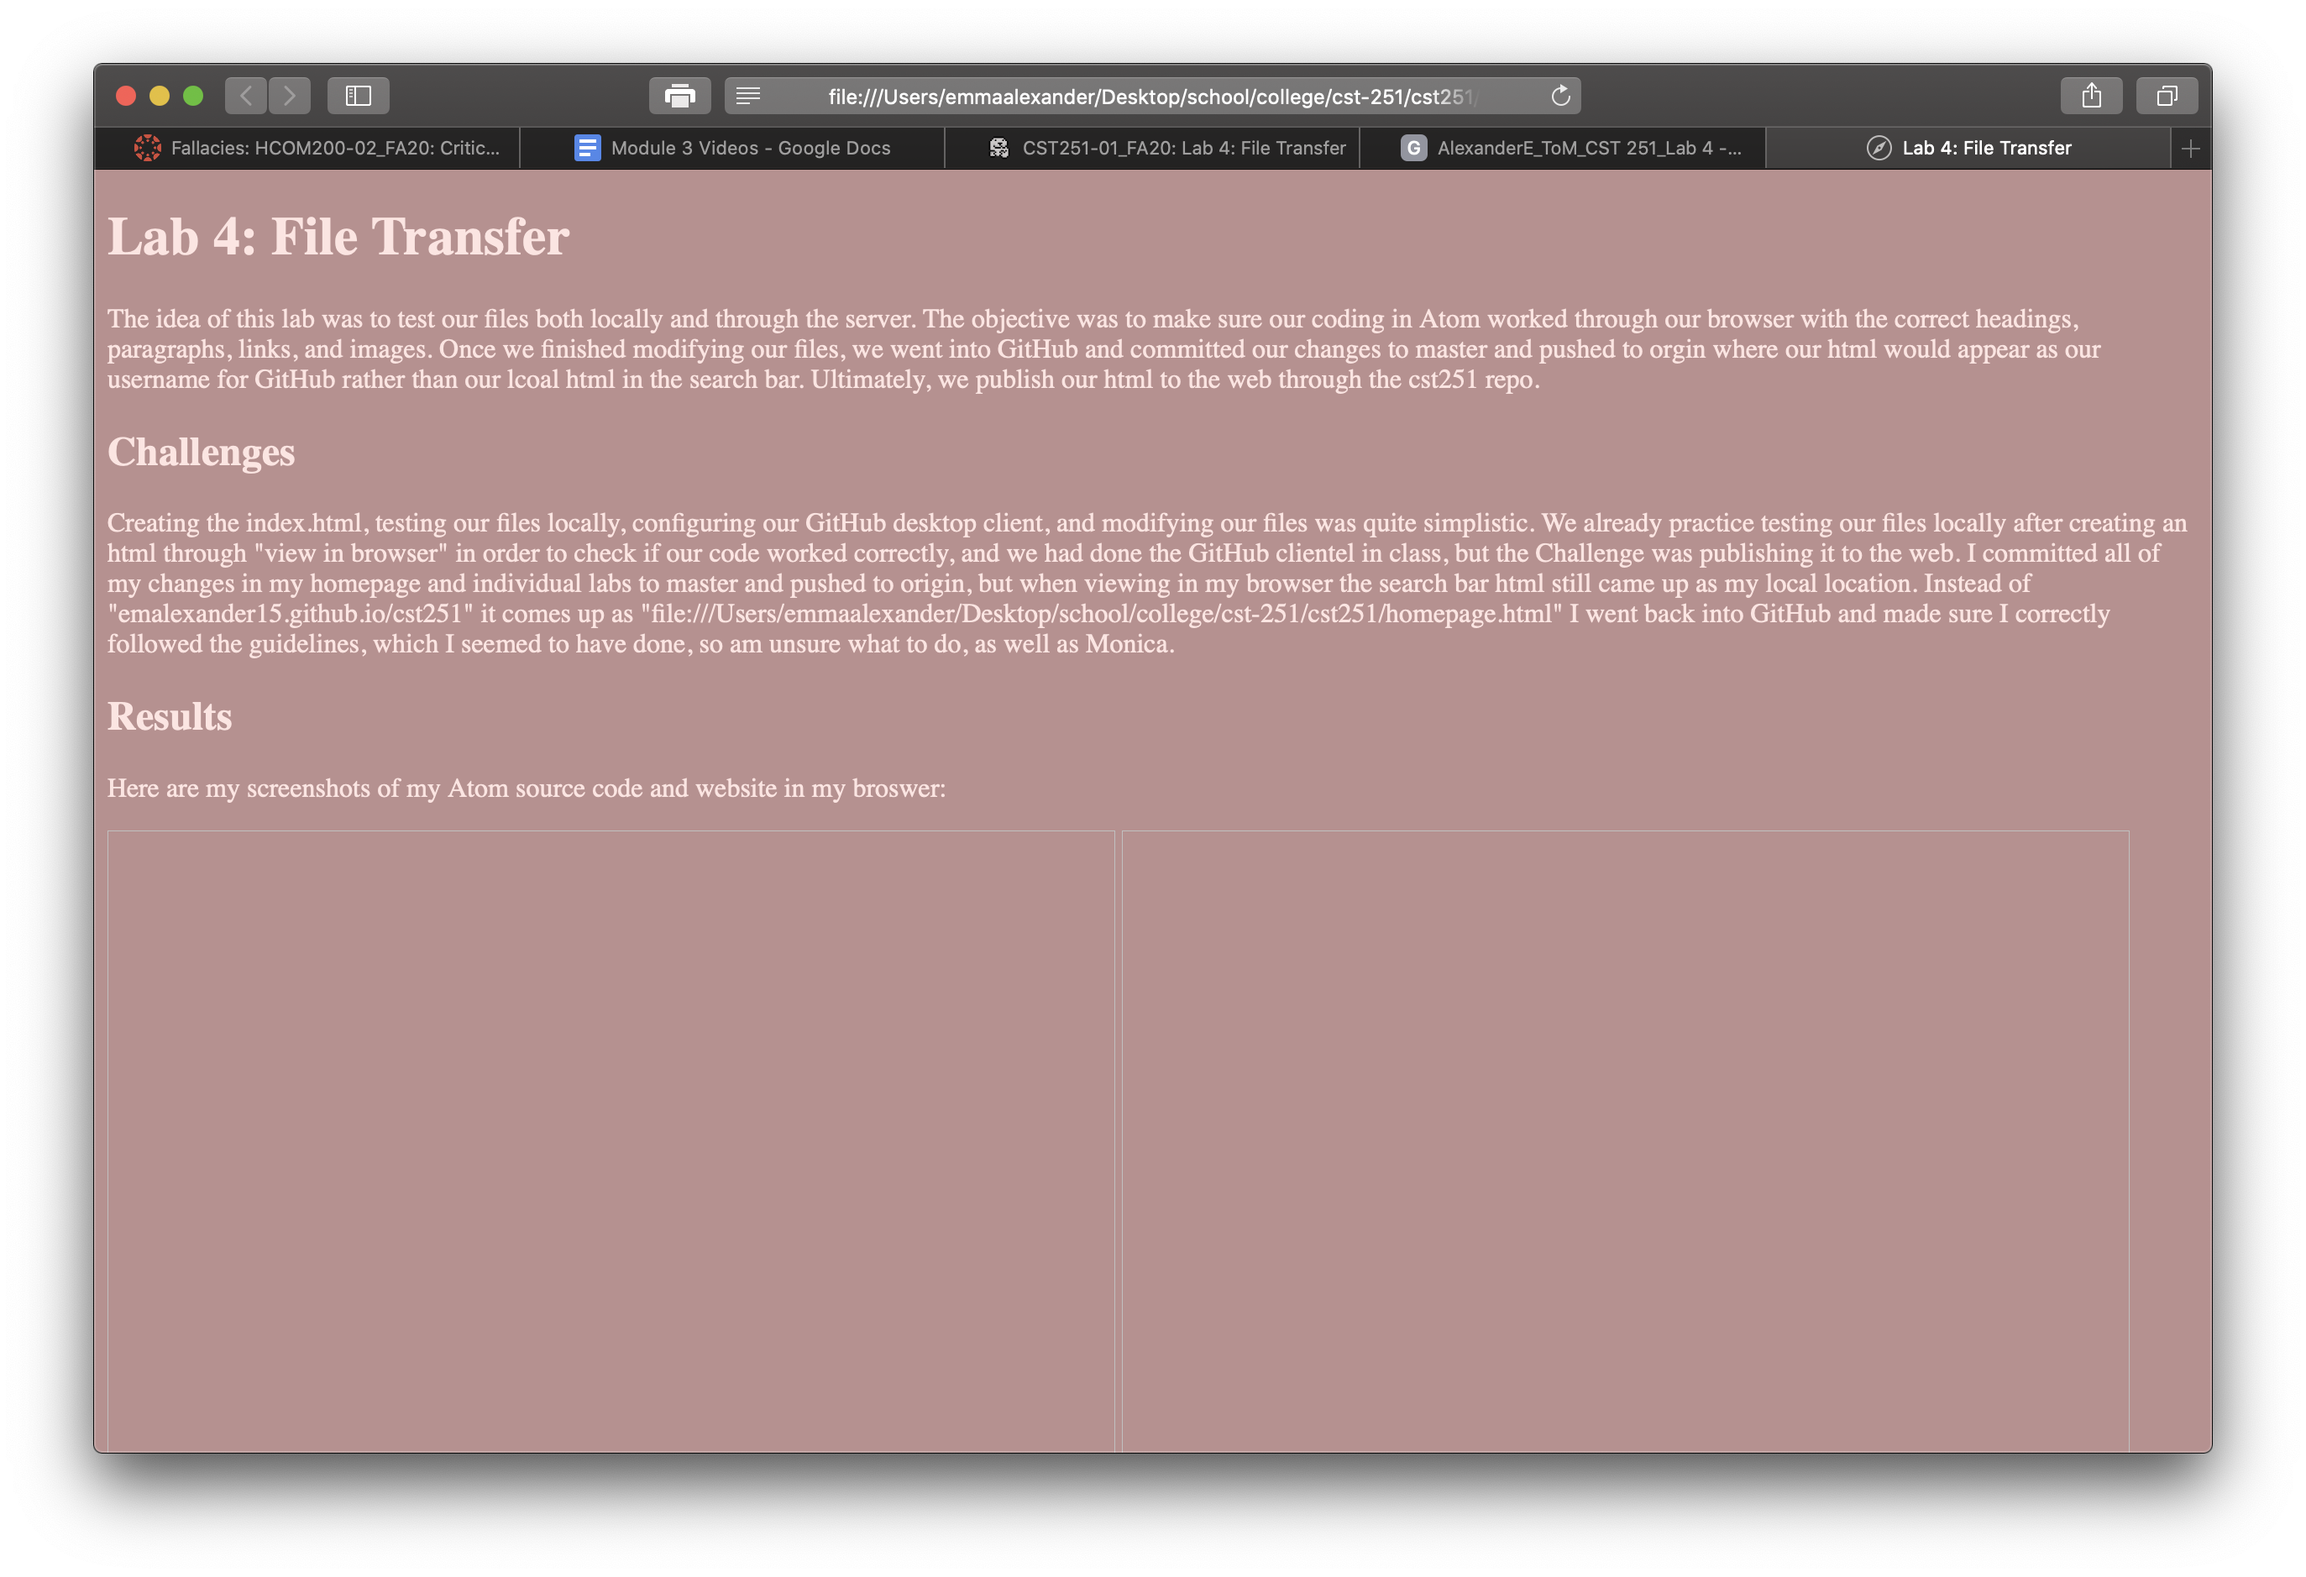
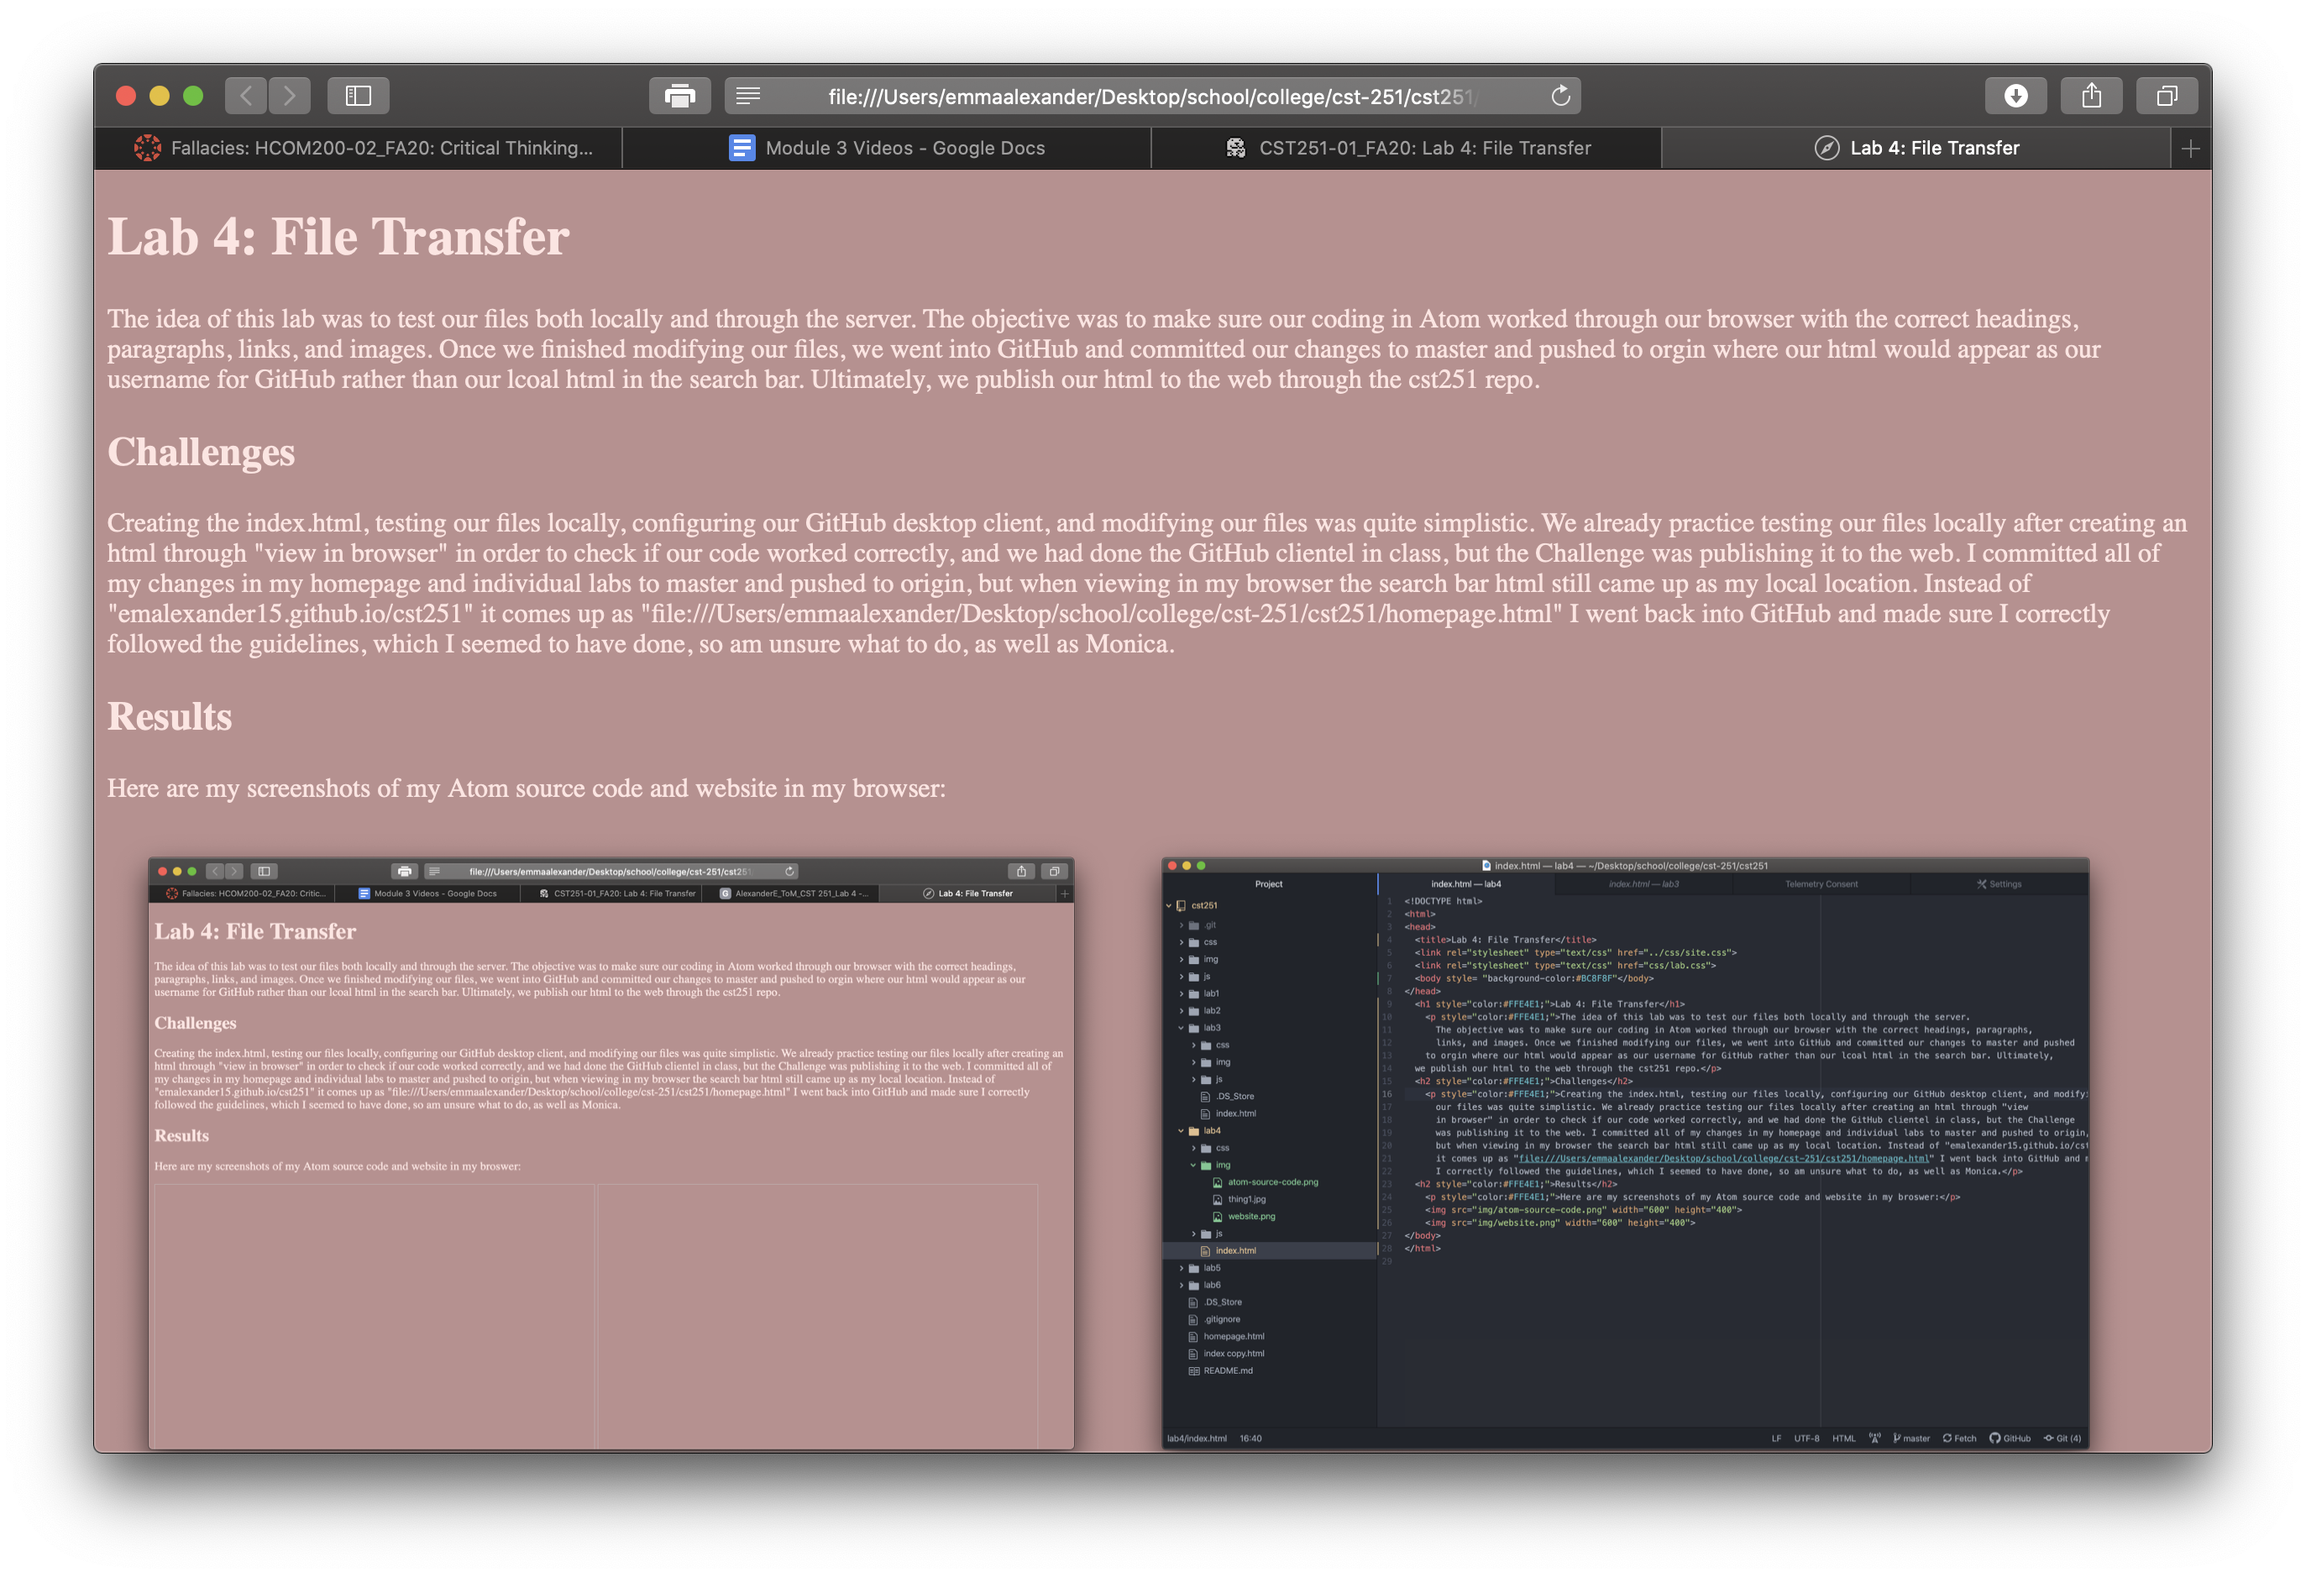
Lab Index Changes

diff --git a/lab4/index.html b/lab4/index.html
@@ -1,7 +1,7 @@
 <!DOCTYPE html>
 <html>
 <head>
-	<title>Lab 4: File Transfer</title>
+	<center><title>Lab 4: File Transfer</title><center>
 	<link rel="stylesheet" type="text/css" href="../css/site.css">
 	<link rel="stylesheet" type="text/css" href="css/lab.css">
 	<body style= "background-color:#BC8F8F"</body>
@@ -10,7 +10,7 @@
 		<p style="color:#FFE4E1;">The idea of this lab was to test our files both locally and through the server.
 			The objective was to make sure our coding in Atom worked through our browser with the correct headings, paragraphs,
 			links, and images. Once we finished modifying our files, we went into GitHub and committed our changes to master and pushed
-		to orgin where our html would appear as our username for GitHub rather than our lcoal html in the search bar. Ultimately,
+		to origin where our html would appear as our username for GitHub rather than our local html in the search bar. Ultimately,
 	we publish our html to the web through the cst251 repo.</p>
 	<h2 style="color:#FFE4E1;">Challenges</h2>
 		<p style="color:#FFE4E1;">Creating the index.html, testing our files locally, configuring our GitHub desktop client, and modifying
@@ -21,7 +21,7 @@
 			it comes up as "file:///Users/emmaalexander/Desktop/school/college/cst-251/cst251/homepage.html" I went back into GitHub and made sure
 			I correctly followed the guidelines, which I seemed to have done, so am unsure what to do, as well as Monica.</p>
 	<h2 style="color:#FFE4E1;">Results</h2>
-		<p style="color:#FFE4E1;">Here are my screenshots of my Atom source code and website in my broswer:</p>
+		<p style="color:#FFE4E1;">Here are my screenshots of my website and Atom source code in my browser:</p>
 		<img src="img/website.png" width="600" height="400">
 		<img src="img/atom-sourcecode.png" width="600" height="400">
 </body>

diff --git a/lab3/index.html b/lab3/index.html
@@ -1,7 +1,7 @@
 <!DOCTYPE html>
 <html>
 <head>
-	<title>Lab 3: File Structures</title>
+	<center><title>Lab 3: File Structures</title><center>
 	<link rel="stylesheet" type="text/css" href="../css/site.css">
 	<link rel="stylesheet" type="text/css" href="css/lab.css">
 	<body style= "background-color:#BC8F8F"</body>
@@ -14,7 +14,7 @@
 		<p style="color:#FFE4E1;">I have always been very organized, so creating and
 			maintaining file structures has always been habitual to me, along with
 			Monica. Along with this, our folders were already premade when we
-			originally had created our respitory with img, css, and index.html (also
+			originally had created our respiratory with img, css, and index.html (also
 			js). I did run into a	problem with acidentally choosing the wrong
 			index.html file so had to re arrange them within my folders a bit and make
 			sure it was the correct one under the correct lab folder in Atom.</p>

diff --git a/lab2/helloworld.html b/lab2/helloworld.html
@@ -1,7 +1,7 @@
 <!DOCTYPE html>
 <html>
   <body>
-    <h1 style="color:#FFE4E1;">Hello World.</h1>
+      <h1 style="color:#FFE4E1;">Hello World.</h1>
       <p style="color:#FFE4E1;">Our names are Emma Alexander and Monica To.
       We are second year Communication Design students
       at CSUMB. Our concentration is in Visual Design.
